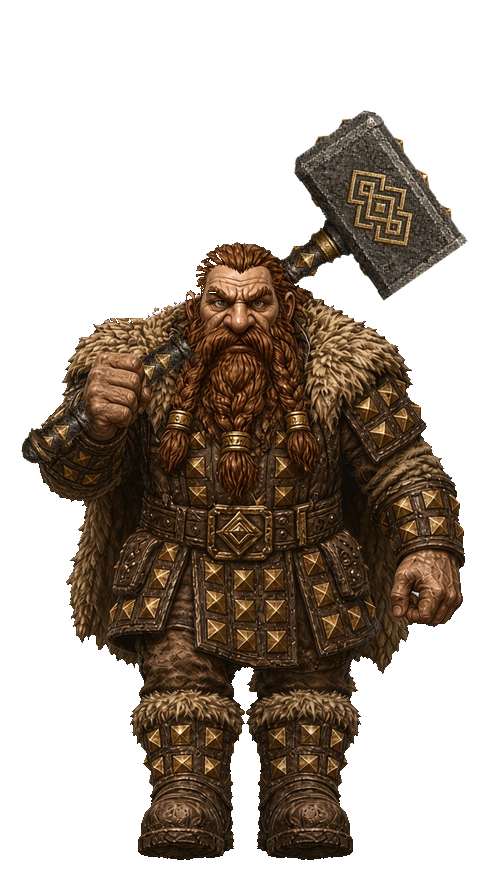
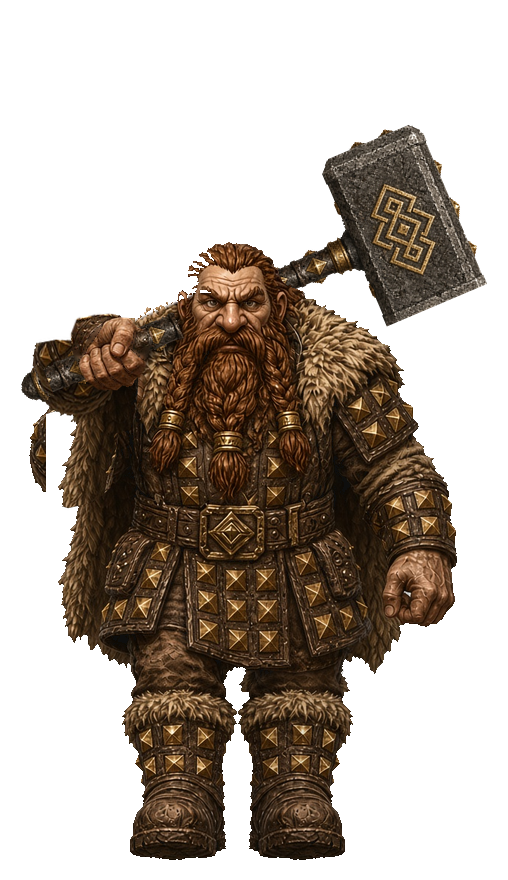
Macar idle: real grip on a shouldered maul; pre-filtered in-game draw
Idle sheet (dwarf_macar.png), per Nick's mini reference, one hand:
- The near hand now wraps over the haft (the anchor's own gripping hand,
  turned 3.6 degrees to the haft) instead of the vertical-grip fist the
  haft slid behind. The forearm is the idle's own sleeve raised under it.
- Haft lies along the shoulders at 23 degrees, over the near shoulder and
  behind his head; the head rests behind the far shoulder.
- Maul matches the other sheets: collar to pommel 361 px (the anchor's),
  the shared 176 px T-maul head. The pommel end sticks out past the fist.

In-game fidelity: living Macar was blitted nearest-neighbour straight
from the ~880-tall sheet to ~100 px, sampling about one texel in eight,
so the paint speckled. livingMacarMip pre-filters each bake once to the
drawn size (halving steps, high-quality smoothing), re-punches to binary
alpha (no ramped edge or fringe), and the crisp blit is then 1:1. Cached
per sheet and size. Used by blitFacing for living Macar bakes only (kin
and ghosts unchanged) and by the pack doll.

Claude-Session: https://claude.ai/code/session_01JzWctKtBWBn4Z96hsGEEBK

diff --git a/index.html b/index.html
@@ -1972,12 +1972,66 @@ function flippedSprite(img, punch){
   if(cache) cache.set(img,c);
   return c;
 }
+/* Living Macar sheets are ~880 tall and land ~100 px tall on screen. A
+   crisp (nearest) blit at that ratio samples about one texel in eight, so
+   the paint speckles and the studs shimmer. Pre-filter once to the size it
+   is drawn at (halving steps, high-quality smoothing), re-punch to binary
+   alpha so no ramped edge or fringe comes back, then the crisp blit is 1:1.
+   Cached per sheet and size; zoom changes add a size, not a rebuild. */
+const LIVING_MIP=(typeof WeakMap==='function')?new WeakMap():null;
+function livingMacarMip(src, W, H, g){
+  if(!src||!src.width||!src.height||typeof document==='undefined') return src;
+  let sx=1, sy=1;
+  try{
+    const m=(g&&g.getTransform)?g.getTransform():null;
+    if(m){ sx=Math.hypot(m.a,m.b)||1; sy=Math.hypot(m.c,m.d)||1; }
+  }catch(_){}
+  const tw=Math.max(1,Math.round(Math.abs(W)*sx)), th=Math.max(1,Math.round(Math.abs(H)*sy));
+  if(th>=src.height*0.66 || tw>=src.width*0.66) return src;
+  let bySize=LIVING_MIP?LIVING_MIP.get(src):null;
+  const key=tw+'x'+th;
+  if(bySize&&bySize.has(key)) return bySize.get(key);
+  let out=null;
+  try{
+    let cur=src, cw=src.width, ch=src.height;
+    while(ch/2>=th*1.5 && cw/2>=tw*1.5){
+      const c=document.createElement('canvas');
+      c.width=Math.max(1,Math.round(cw/2)); c.height=Math.max(1,Math.round(ch/2));
+      const x=c.getContext('2d');
+      x.imageSmoothingEnabled=true;
+      if(x.imageSmoothingQuality) x.imageSmoothingQuality='high';
+      x.drawImage(cur,0,0,c.width,c.height);
+      cur=c; cw=c.width; ch=c.height;
+    }
+    const c=document.createElement('canvas');
+    c.width=tw; c.height=th;
+    const x=c.getContext('2d',{willReadFrequently:true});
+    x.imageSmoothingEnabled=true;
+    if(x.imageSmoothingQuality) x.imageSmoothingQuality='high';
+    x.drawImage(cur,0,0,tw,th);
+    const idat=x.getImageData(0,0,tw,th), d=idat.data;
+    for(let i=0;i<d.length;i+=4){
+      if(d[i+3]<128){ d[i]=0; d[i+1]=0; d[i+2]=0; d[i+3]=0; }
+      else d[i+3]=255;
+    }
+    x.putImageData(idat,0,0);
+    out=c;
+  }catch(_){ return src; }
+  if(!bySize && LIVING_MIP){ bySize=new Map(); LIVING_MIP.set(src,bySize); }
+  if(bySize){
+    if(bySize.size>=6) bySize.delete(bySize.keys().next().value);
+    bySize.set(key,out);
+  }
+  return out;
+}
 function blitFacing(g,img,dx,dy,W,H,flip,crisp,punch){
   // Bake a mirrored canvas and draw it unflipped so west never depends on
   // negative-width drawImage (some GPU paths ignore dest-width sign).
   // Crisp = nearest-neighbor. Title-law idle is ~470x512; a smoothed ~70x74
   // blit collapses painted-mini detail and amplifies magenta fringe.
-  const src=flip?flippedSprite(img, punch):img;
+  // Living Macar bakes are pre-filtered to the drawn size first (see above).
+  let src=flip?flippedSprite(img, punch):img;
+  if(crisp && img && img.__livingBake) src=livingMacarMip(src, W, H, g);
   const prevS=g.imageSmoothingEnabled;
   const prevQ=g.imageSmoothingQuality;
   if(crisp){
@@ -20913,7 +20967,11 @@ function drawEquipDoll(g, x, y, w, h){
     g.globalCompositeOperation='source-over';
     const prevS=g.imageSmoothingEnabled;
     g.imageSmoothingEnabled=false;
-    g.drawImage(img, sx, sy, sw, sh, body.x+body.w/2-dw/2, body.y+body.h/2-dh/2, dw, dh);
+    /* Same pre-filtered size as the world blit, so the doll is not a
+       nearest-neighbour decimation of the 880-tall sheet. */
+    const mip=(typeof livingMacarMip==='function')?livingMacarMip(img, img.width*sc, img.height*sc, g):img;
+    const mf=mip.width/img.width;
+    g.drawImage(mip, sx*mf, sy*mf, sw*mf, sh*mf, body.x+body.w/2-dw/2, body.y+body.h/2-dh/2, dw, dh);
     g.imageSmoothingEnabled=prevS;
     g.restore();
   } else {
